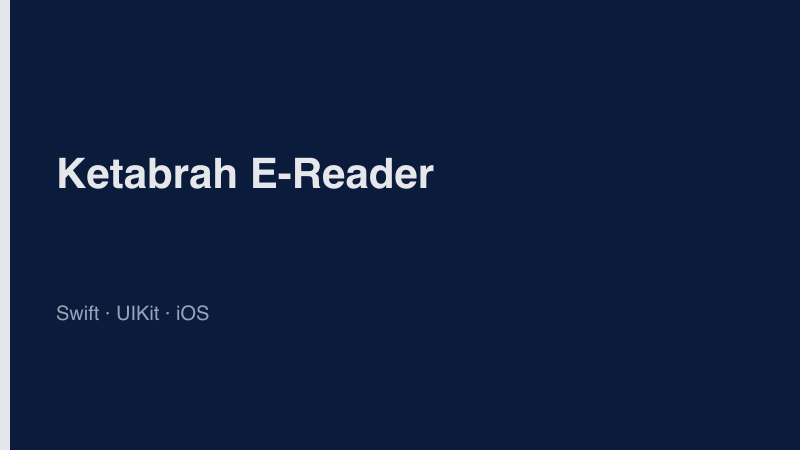
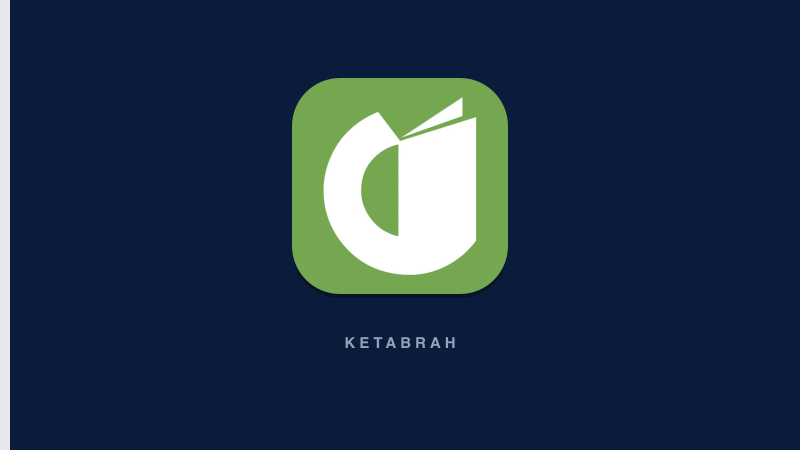
feat: update project images and enhance project card generation
Replace existing project images with updated versions for better quality. Refactor the project card generation script to support new SVG icons and improve layout handling. Update image alt texts in the profile data for better accessibility and clarity.

Changed region(s): [[0.0625, 0.1556, 0.6562, 0.6533], [0.0625, 0.6844, 0.2812, 0.7156], [0.4062, 0.7467, 0.5938, 0.7778]]

diff --git a/scripts/generate-project-cards.js b/scripts/generate-project-cards.js
@@ -2,48 +2,13 @@ const sharp = require("sharp");
 const fs = require("fs");
 const path = require("path");
 
-const projects = [
-  {
-    file: "pulse.png",
-    title: "Pulse Merchant App",
-    tags: "Swift · iOS · Fintech",
-  },
-  {
-    file: "mellat-wallet.png",
-    title: "Mellat Bank Wallet",
-    tags: "Architecture · Microservices · Fintech",
-  },
-  {
-    file: "iva-neobank.png",
-    title: "Iva Neobank Platform",
-    tags: "Event-Driven · NATS · NestJS",
-  },
-  {
-    file: "mellat-mobile-bank.png",
-    title: "Mellat Mobile Bank",
-    tags: "Swift · iOS · Scale",
-  },
-  {
-    file: "sekkeh.png",
-    title: "Sekkeh App Modernization",
-    tags: "Swift · Performance · MVVM",
-  },
-  {
-    file: "jackpot.png",
-    title: "Jackpot Fun Game",
-    tags: "React · CSS Animations",
-  },
-  {
-    file: "paysib.png",
-    title: "Paysib Currency Exchange",
-    tags: "Next.js · Node.js · Fintech",
-  },
-  {
-    file: "ketabrah.png",
-    title: "Ketabrah E-Reader",
-    tags: "Swift · UIKit · iOS",
-  },
-];
+const WIDTH = 800;
+const HEIGHT = 450;
+const TILE = 216;
+const RADIUS = 48;
+const NAVY = { r: 11, g: 27, b: 59, alpha: 1 };
+
+const logosDir = path.join(__dirname, "project-logos");
 
 function escapeXml(value) {
   return value
@@ -53,63 +18,211 @@ function escapeXml(value) {
     .replace(/"/g, "&quot;");
 }
 
-function wrapTitle(title) {
-  if (title.length <= 22) return [title];
-  const words = title.split(" ");
-  const lines = [];
-  let current = "";
-  for (const word of words) {
-    const next = current ? `${current} ${word}` : word;
-    if (next.length > 22 && current) {
-      lines.push(current);
-      current = word;
-    } else {
-      current = next;
-    }
-  }
-  if (current) lines.push(current);
-  return lines.slice(0, 2);
-}
-
-function cardSvg(title, tags) {
-  const lines = wrapTitle(title);
-  const titleTspans = lines
-    .map((line, index) => {
-      const dy = index === 0 ? 0 : 52;
-      return `<tspan x="56" dy="${dy}">${escapeXml(line)}</tspan>`;
-    })
-    .join("");
-
+function cardBaseSvg(label) {
   return Buffer.from(`
-    <svg width="800" height="450" xmlns="http://www.w3.org/2000/svg">
-      <rect width="800" height="450" fill="#0B1B3B"/>
-      <rect x="0" y="0" width="10" height="450" fill="#E5E7EB"/>
+    <svg width="${WIDTH}" height="${HEIGHT}" xmlns="http://www.w3.org/2000/svg">
+      <rect width="${WIDTH}" height="${HEIGHT}" fill="#0B1B3B"/>
+      <rect x="0" y="0" width="10" height="${HEIGHT}" fill="#E5E7EB"/>
       <text
-        x="56"
-        y="188"
+        x="400"
+        y="348"
+        text-anchor="middle"
         font-family="Helvetica, Arial, sans-serif"
-        font-size="42"
+        font-size="15"
         font-weight="700"
-        fill="#E5E7EB"
-      >${titleTspans}</text>
-      <text
-        x="56"
-        y="320"
-        font-family="Helvetica, Arial, sans-serif"
-        font-size="20"
+        letter-spacing="4"
         fill="#94A3B8"
-      >${escapeXml(tags)}</text>
+      >${escapeXml(label)}</text>
     </svg>
   `);
+}
+
+function roundedMask(size = TILE, radius = RADIUS) {
+  return Buffer.from(`
+    <svg width="${size}" height="${size}" xmlns="http://www.w3.org/2000/svg">
+      <rect width="${size}" height="${size}" rx="${radius}" ry="${radius}" fill="#fff"/>
+    </svg>
+  `);
+}
+
+function tileShadow() {
+  return Buffer.from(`
+    <svg width="${TILE + 16}" height="${TILE + 16}" xmlns="http://www.w3.org/2000/svg">
+      <rect
+        x="8" y="10" width="${TILE}" height="${TILE}"
+        rx="${RADIUS}" ry="${RADIUS}"
+        fill="#000000" opacity="0.28"
+      />
+    </svg>
+  `);
+}
+
+function svgIcon(contents, { size = TILE, background } = {}) {
+  const bg = background
+    ? `<rect width="${size}" height="${size}" rx="${RADIUS}" ry="${RADIUS}" fill="${background}"/>`
+    : "";
+  return Buffer.from(`
+    <svg width="${size}" height="${size}" xmlns="http://www.w3.org/2000/svg">
+      ${bg}
+      ${contents}
+    </svg>
+  `);
+}
+
+async function roundTile(input, extra = []) {
+  const resized = await sharp(input)
+    .resize(TILE, TILE, { fit: "cover" })
+    .png()
+    .toBuffer();
+  return sharp(resized)
+    .composite([...extra, { input: roundedMask(), blend: "dest-in" }])
+    .png()
+    .toBuffer();
+}
+
+async function markOnTile(markPath, { background, pad = 36 }) {
+  const inner = TILE - pad * 2;
+  const mark = await sharp(markPath)
+    .resize(inner, inner, {
+      fit: "contain",
+      background: { r: 0, g: 0, b: 0, alpha: 0 },
+    })
+    .png()
+    .toBuffer();
+  const tile = await sharp({
+    create: {
+      width: TILE,
+      height: TILE,
+      channels: 4,
+      background: background ?? { r: 255, g: 255, b: 255, alpha: 1 },
+    },
+  })
+    .composite([{ input: mark, left: pad, top: pad }])
+    .png()
+    .toBuffer();
+  return roundTile(tile);
+}
+
+function walletIcon() {
+  return svgIcon(
+    `
+      <rect x="38" y="62" width="140" height="96" rx="16" fill="#BA0B22"/>
+      <rect x="38" y="62" width="140" height="28" rx="8" fill="#8F081A"/>
+      <rect x="54" y="108" width="36" height="26" rx="5" fill="#FFC730"/>
+      <circle cx="154" cy="122" r="16" fill="#FFC730"/>
+      <path d="M48 62h120c0-14-12-24-28-24H76c-16 0-28 10-28 24z" fill="#D12236"/>
+    `,
+    { background: "#FFFFFF" },
+  );
+}
+
+function jackpotIcon() {
+  return svgIcon(
+    `
+      <text
+        x="108" y="148"
+        text-anchor="middle"
+        font-family="Helvetica, Arial, sans-serif"
+        font-size="120"
+        font-weight="700"
+        fill="#F5D76E"
+      >7</text>
+      <path d="M48 48h14M55 41v14" stroke="#F8E7A1" stroke-width="4" stroke-linecap="round"/>
+      <path d="M164 58h10M169 53v10" stroke="#E8C547" stroke-width="3" stroke-linecap="round"/>
+    `,
+    { background: "#1A1408" },
+  );
+}
+
+const projects = [
+  {
+    file: "pulse.png",
+    label: "PULSE",
+    kind: "mark",
+    mark: "sadad.svg",
+    background: { r: 16, g: 40, b: 81, alpha: 1 },
+    pad: 32,
+  },
+  {
+    file: "iva-neobank.png",
+    label: "IVA",
+    kind: "mark",
+    mark: "iva.svg",
+    background: { r: 255, g: 255, b: 255, alpha: 1 },
+    pad: 14,
+  },
+  {
+    file: "mellat-wallet.png",
+    label: "MELLAT WALLET",
+    kind: "svg",
+    svg: walletIcon,
+  },
+  {
+    file: "mellat-mobile-bank.png",
+    label: "MELLAT BANK",
+    kind: "mark",
+    mark: "mellat.svg",
+    background: { r: 255, g: 255, b: 255, alpha: 1 },
+    pad: 28,
+  },
+  {
+    file: "sekkeh.png",
+    label: "SEKKEH",
+    kind: "raster",
+    raster: "sekeh.webp",
+  },
+  {
+    file: "paysib.png",
+    label: "PAYSIB",
+    kind: "mark",
+    mark: "paysib.svg",
+    background: { r: 255, g: 255, b: 255, alpha: 1 },
+    pad: 14,
+  },
+  {
+    file: "ketabrah.png",
+    label: "KETABRAH",
+    kind: "raster",
+    raster: "ketabrah.webp",
+  },
+  {
+    file: "jackpot.png",
+    label: "JACKPOT",
+    kind: "svg",
+    svg: jackpotIcon,
+  },
+];
+
+async function tileFor(project) {
+  if (project.kind === "raster") {
+    return roundTile(path.join(logosDir, project.raster));
+  }
+  if (project.kind === "mark") {
+    return markOnTile(path.join(logosDir, project.mark), {
+      background: project.background,
+      pad: project.pad,
+    });
+  }
+  return roundTile(await sharp(project.svg()).png().toBuffer());
 }
 
 async function generateProjectCards() {
   const outDir = path.join(__dirname, "../public/projects");
   fs.mkdirSync(outDir, { recursive: true });
+  const shadow = await sharp(tileShadow()).png().toBuffer();
+  const left = Math.round((WIDTH - TILE) / 2);
+  const top = 78;
 
   for (const project of projects) {
+    const tile = await tileFor(project);
     const outputPath = path.join(outDir, project.file);
-    await sharp(cardSvg(project.title, project.tags)).png().toFile(outputPath);
+    await sharp(cardBaseSvg(project.label))
+      .composite([
+        { input: shadow, left: left - 8, top: top - 6 },
+        { input: tile, left, top },
+      ])
+      .png({ compressionLevel: 9 })
+      .toFile(outputPath);
     console.log(`Generated ${project.file}`);
   }
 }

diff --git a/src/lib/data/profile.ts b/src/lib/data/profile.ts
@@ -126,8 +126,7 @@ export const profile: Profile = {
       description:
         "Native iOS app for Bank Melli merchants on the Sadad PSP network. Merchants inspect transaction details and statistics through daily and weekly dashboards, charts by amount and volume, and in-app support: tickets, receipt-roll requests, and discrepancy reports.",
       image: "/projects/pulse.png",
-      imageAlt:
-        "Navy branded card for Pulse Merchant App, a Bank Melli merchant iOS app",
+      imageAlt: "Sadad emblem on a navy card for Pulse Merchant App",
       link: "https://cafebazaar.ir/app/ir.sadadpsp.sadadMerchant",
       tags: ["Swift", "iOS", "Fintech", "Reporting"],
       featured: true,
@@ -138,7 +137,8 @@ export const profile: Profile = {
       description:
         "Led architecture for Sadad's new Iva neobank platform. Throughput went from about 3 TPS to 200+ TPS, and transaction volume rose 3–5x after launch.",
       image: "/projects/iva-neobank.png",
-      imageAlt: "Navy branded card for the Iva neobank platform",
+      imageAlt:
+        "Iva wordmark and blue mark on a navy card for the Iva neobank platform",
       link: "https://ivaapp.com",
       tags: ["Architecture", "Event-Driven", "NATS", "NestJS", "System Design"],
       featured: true,
@@ -150,7 +150,7 @@ export const profile: Profile = {
       description:
         "Designed and built the core microservices for a banking wallet, including the high-throughput transaction engine, partner APIs, and payment gateway for partners such as Irancell.",
       image: "/projects/mellat-wallet.png",
-      imageAlt: "Navy branded card for Mellat Bank Wallet",
+      imageAlt: "Mellat-red wallet mark on a navy card for Mellat Bank Wallet",
       link: "https://behpardakht.com",
       tags: ["Architecture", "Microservices", "NestJS", "Fintech", "Node.js"],
       featured: true,
@@ -162,7 +162,7 @@ export const profile: Profile = {
       description:
         "Built the native iOS app for one of Iran's largest banks, later serving 3M+ users.",
       image: "/projects/mellat-mobile-bank.png",
-      imageAlt: "Navy branded card for Mellat Mobile Bank on iOS",
+      imageAlt: "Bank Mellat emblem on a navy card for Mellat Mobile Bank",
       link: "https://mobile.bankmellat.ir/mobile/ios.html",
       tags: ["Swift", "Security", "Fintech", "Scale", "iOS"],
       featured: true,
@@ -174,7 +174,7 @@ export const profile: Profile = {
       description:
         "Refactored a production payment app to MVVM and cut startup time by 50%.",
       image: "/projects/sekkeh.png",
-      imageAlt: "Navy branded card for the Sekkeh payment app modernization",
+      imageAlt: "Sekkeh app icon on a navy card",
       link: "https://sekeh.behpardakht.com",
       tags: ["Swift", "Refactoring", "Performance", "Architecture"],
       featured: true,
@@ -186,7 +186,8 @@ export const profile: Profile = {
       description:
         "Built a currency exchange platform: the trading interface in Next.js and the backend transaction logic in Node.js.",
       image: "/projects/paysib.png",
-      imageAlt: "Navy branded card for Paysib currency exchange",
+      imageAlt:
+        "Paysib stencil wordmark on a navy card for the currency exchange",
       link: "https://paysib.com",
       tags: ["Next.js", "Node.js", "MongoDB", "Fintech", "Security"],
       featured: true,
@@ -197,7 +198,7 @@ export const profile: Profile = {
       description:
         "Contributed new features to one of Iran's leading iOS e-reader apps.",
       image: "/projects/ketabrah.png",
-      imageAlt: "Navy branded card for the Ketabrah iOS e-reader",
+      imageAlt: "Ketabrah book mark on a navy card for the iOS e-reader",
       link: "https://www.ketabrah.ir/apps",
       tags: ["Swift", "UIKit", "iOS", "User Experience"],
       featured: true,
@@ -208,7 +209,8 @@ export const profile: Profile = {
       description:
         "A simple jackpot game I built for my son, using React and CSS animations.",
       image: "/projects/jackpot.png",
-      imageAlt: "Navy branded card for a personal React jackpot game",
+      imageAlt:
+        "Gold seven mark on a navy card for a personal React jackpot game",
       link: "/jackpot",
       tags: ["React", "CSS Animations", "Frontend", "Personal Project"],
     },

diff --git a/src/components/ResumeView.tsx b/src/components/ResumeView.tsx
@@ -36,8 +36,8 @@ function FeaturedCard({
         }
         className={
           hero
-            ? "border-border h-48 w-full border-b object-cover sm:h-auto sm:w-72 sm:shrink-0 sm:border-r sm:border-b-0"
-            : "border-border h-40 w-full border-b object-cover"
+            ? "border-border h-48 w-full border-b bg-[#0B1B3B] object-contain sm:h-auto sm:w-72 sm:shrink-0 sm:border-r sm:border-b-0"
+            : "border-border h-40 w-full border-b bg-[#0B1B3B] object-contain"
         }
       />
       <div className="flex grow flex-col p-4">
